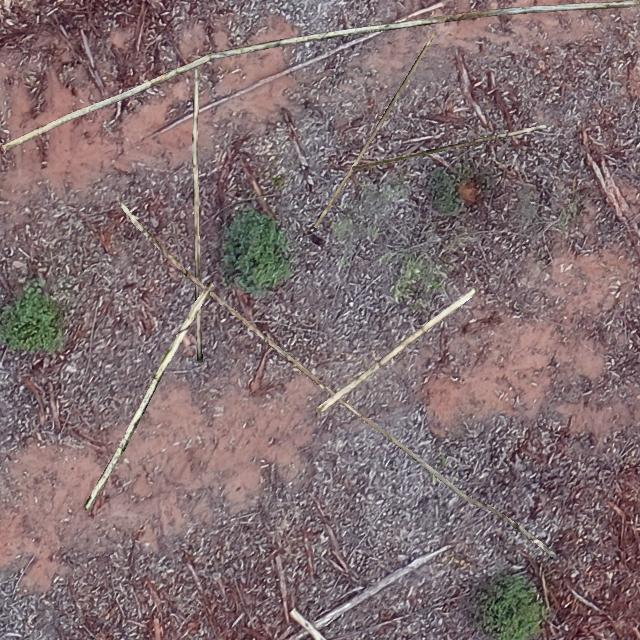
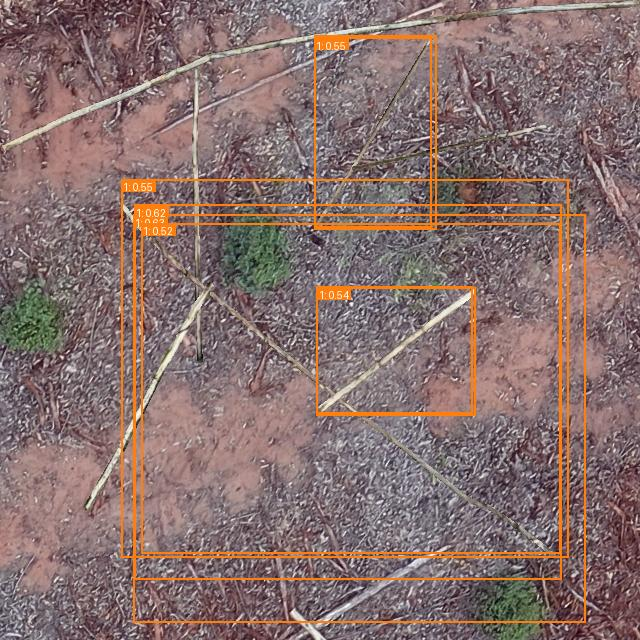
fix post processing for infer with masks

Changed region(s): [[0.1875, 0.0312, 0.9375, 0.9688], [0.4688, 0.4375, 0.75, 0.6562], [0.2188, 0.9688, 0.9062, 1.0]]

diff --git a/tools/infer.py b/tools/infer.py
@@ -3,7 +3,7 @@ import torch.nn as nn
 import torchvision.transforms as T
 from torch.cuda.amp import autocast
 import numpy as np 
-from PIL import Image, ImageDraw, ImageFont
+from PIL import Image, ImageDraw, ImageFont, ImageColor
 import os 
 import sys 
 sys.path.insert(0, os.path.join(os.path.dirname(os.path.abspath(__file__)), '..'))
@@ -98,24 +98,81 @@ def merge_predictions(predictions, slice_coordinates, orig_image_size, slice_wid
         merged_boxes.extend(valid_boxes)
         merged_scores.extend(valid_scores)
     return np.array(merged_labels), np.array(merged_boxes), np.array(merged_scores)
-def draw(images, labels, boxes, scores, thrh = 0.6, path = ""):
-    for i, im in enumerate(images):
-        draw = ImageDraw.Draw(im)
-        scr = scores[i]
-        lab = labels[i][scr > thrh]
-        box = boxes[i][scr > thrh]
-        scrs = scores[i][scr > thrh]
-        for j,b in enumerate(box):
-            draw.rectangle(list(b), outline='red',)
-            draw.text((b[0], b[1]), text=f"label: {lab[j].item()} {round(scrs[j].item(),2)}", font=ImageFont.load_default(), fill='blue')
-        if path == "":
-            im.save(f'results_{i}.jpg')
-        else:
-            im.save(path)
-            
-def main(args, ):
-    """main
+  
+def draw(images, labels, boxes, scores, masks_list=None, thrh=0.6, path=""):
     """
+    Draw bounding boxes, labels, scores, and masks on images.
+    Masks are assumed to be already binarized (0 or 1 values).
+    """
+    # Define colors for different classes (for boxes only)
+    colors = [
+        '#1f77b4', '#ff7f0e', '#2ca02c', '#d62728', '#9467bd',
+        '#8c564b', '#e377c2', '#7f7f7f', '#bcbd22', '#17becf'
+    ]
+    
+    # Create a default font
+    try:
+        font = ImageFont.truetype("arial.ttf", 12)
+    except:
+        font = ImageFont.load_default()
+    
+    for i, im in enumerate(images):
+        # Create a copy to draw on
+        img = im.copy().convert("RGBA")
+        draw = ImageDraw.Draw(img, "RGBA")
+        
+        # Get detections above threshold
+        scr = scores[i]
+        valid_idx = scr > thrh
+        lab = labels[i][valid_idx]
+        box = boxes[i][valid_idx]
+        scrs = scores[i][valid_idx]
+        
+        # Draw masks first (so boxes appear on top)
+        if masks_list is not None and i < len(masks_list) and masks_list[i] is not None:
+            masks = masks_list[i][valid_idx]
+            
+            # Create a black layer for all masks
+            black_layer = Image.new("RGBA", img.size, (0, 0, 0, 255))
+            mask_combined = Image.new("L", img.size, 0)
+            
+            # Combine all masks for this image
+            for mask in masks:
+                # Convert binary mask to PIL Image (0-255)
+                mask_img = Image.fromarray((mask * 255).astype(np.uint8), mode='L')
+                # Paste onto combined mask
+                mask_combined.paste(255, (0, 0), mask_img)
+            
+            # Apply combined mask to black layer
+            black_layer.putalpha(mask_combined)
+            # Composite with original image
+            img = Image.alpha_composite(img, black_layer)
+            draw = ImageDraw.Draw(img, "RGBA")  # Refresh draw object
+        
+        # Draw bounding boxes and labels
+        for j, b in enumerate(box):
+            color = ImageColor.getrgb(colors[int(lab[j]) % len(colors)])
+            
+            # Draw bounding box
+            draw.rectangle(list(b), outline=color + (255,), width=2)
+            
+            # Draw label
+            text = f"{int(lab[j])}: {scrs[j]:.2f}"
+            text_bbox = draw.textbbox((0, 0), text, font=font)
+            text_bg = [
+                b[0], b[1],
+                b[0] + (text_bbox[2]-text_bbox[0]) + 4,
+                b[1] + (text_bbox[3]-text_bbox[1]) + 4
+            ]
+            draw.rectangle(text_bg, fill=color + (255,))
+            draw.text((b[0]+2, b[1]+2), text, font=font, fill=(255,255,255,255))
+        
+        # Save result
+        output_path = f"results_{i}.jpg" if path == "" else path
+        img.convert("RGB").save(output_path)
+
+def main(args, ):
+    """main function"""
     cfg = YAMLConfig(args.config, resume=args.resume)
     print(cfg)
     if args.resume:
@@ -126,8 +183,10 @@ def main(args, ):
             state = checkpoint['model']
     else:
         raise AttributeError('Only support resume to load model.state_dict by now.')
-    # NOTE load train mode state -> convert to deploy mode
+    
+    # Load and deploy model
     cfg.model.load_state_dict(state)
+    
     class Model(nn.Module):
         def __init__(self, ) -> None:
             super().__init__()
@@ -136,11 +195,12 @@ def main(args, ):
             
         def forward(self, images, orig_target_sizes):
             outputs = self.model(images)
-            outputs = self.postprocessor(outputs, orig_target_sizes)
-            print(len(outputs))
-            return outputs
+            return self.postprocessor(outputs, orig_target_sizes)
     
     model = Model().to(args.device)
+    model.eval()
+    
+    # Load and process image
     im_pil = Image.open(args.im_file).convert('RGB')
     w, h = im_pil.size
     orig_size = torch.tensor([w, h])[None].to(args.device)
@@ -150,37 +210,44 @@ def main(args, ):
         T.ToTensor(),
     ])
     im_data = transforms(im_pil)[None].to(args.device)
-    if args.sliced:
-        num_boxes = args.numberofboxes
+
+    # Run inference
+    with torch.no_grad():
+        result = model(im_data, orig_size)
+    
+    # Process results
+    labels = result[0]['labels'].detach().cpu().numpy()
+    boxes = result[0]['boxes'].detach().cpu().numpy()
+    scores = result[0]['scores'].detach().cpu().numpy()
+    
+    # Handle masks if available
+    masks_list = None
+    if 'masks' in result[0]:
+        masks = result[0]['masks'].detach().cpu().numpy()
+        print("MASKS detected")
         
-        aspect_ratio = w / h
-        num_cols = int(np.sqrt(num_boxes * aspect_ratio)) 
-        num_rows = int(num_boxes / num_cols)
-        slice_height = h // num_rows
-        slice_width = w // num_cols
-        overlap_ratio = 0.2
-        slices, coordinates = slice_image(im_pil, slice_height, slice_width, overlap_ratio)
-        predictions = []
-        for i, slice_img in enumerate(slices):
-            slice_tensor = transforms(slice_img)[None].to(args.device)
-            with autocast():  # Use AMP for each slice
-                output = model(slice_tensor, torch.tensor([[slice_img.size[0], slice_img.size[1]]]).to(args.device))
-            torch.cuda.empty_cache() 
-            labels, boxes, scores = output
-            
-            labels = labels.cpu().detach().numpy()
-            boxes = boxes.cpu().detach().numpy()
-            scores = scores.cpu().detach().numpy()
-            predictions.append((labels, boxes, scores))
-        
-        merged_labels, merged_boxes, merged_scores = merge_predictions(predictions, coordinates, (h, w), slice_width, slice_height)
-        labels, boxes, scores = postprocess(merged_labels, merged_boxes, merged_scores)
-    else:
-        output = model(im_data, orig_size)
-        labels, boxes, scores = output
-        
-    draw([im_pil], labels, boxes, scores, 0.6)
-  
+        # Resize masks to original image size
+        resized_masks = []
+        for mask in masks:
+            # Convert to PIL and resize
+            mask_img = Image.fromarray((mask[0] * 255).astype(np.uint8))
+            mask_img = mask_img.resize((w, h), Image.BILINEAR)
+            # Convert back to numpy and threshold
+            resized_mask = (np.array(mask_img) > 128).astype(np.float32)
+            resized_masks.append(resized_mask)
+        masks_list = [np.array(resized_masks)]
+    
+    # Draw results
+    draw(
+        [im_pil], 
+        [labels], 
+        [boxes], 
+        [scores], 
+        masks_list=masks_list,
+        thrh=0.5,
+        path=args.output if hasattr(args, 'output') else ""
+    )
+
 if __name__ == '__main__':
     import argparse
     parser = argparse.ArgumentParser()
@@ -192,8 +259,4 @@ if __name__ == '__main__':
     parser.add_argument('-nc', '--numberofboxes', type=int, default=25)
     args = parser.parse_args()
     main(args)
-
-
-
-
 

diff --git a/src/zoo/rtdetr/rtdetr_postprocessor.py b/src/zoo/rtdetr/rtdetr_postprocessor.py
@@ -86,13 +86,13 @@ class RTDETRPostProcessor(nn.Module):
                 ).squeeze(1)  # [Q, H_orig, W_orig]
                 res['masks'] = (resized_mask > 0.5).float()
             results.append(res)
-        
+            
         return results
         
 
     def deploy(self, ):
         self.eval()
-        self.deploy_mode = True
+        self.deploy_mode = False
         return self 
 
     @property
